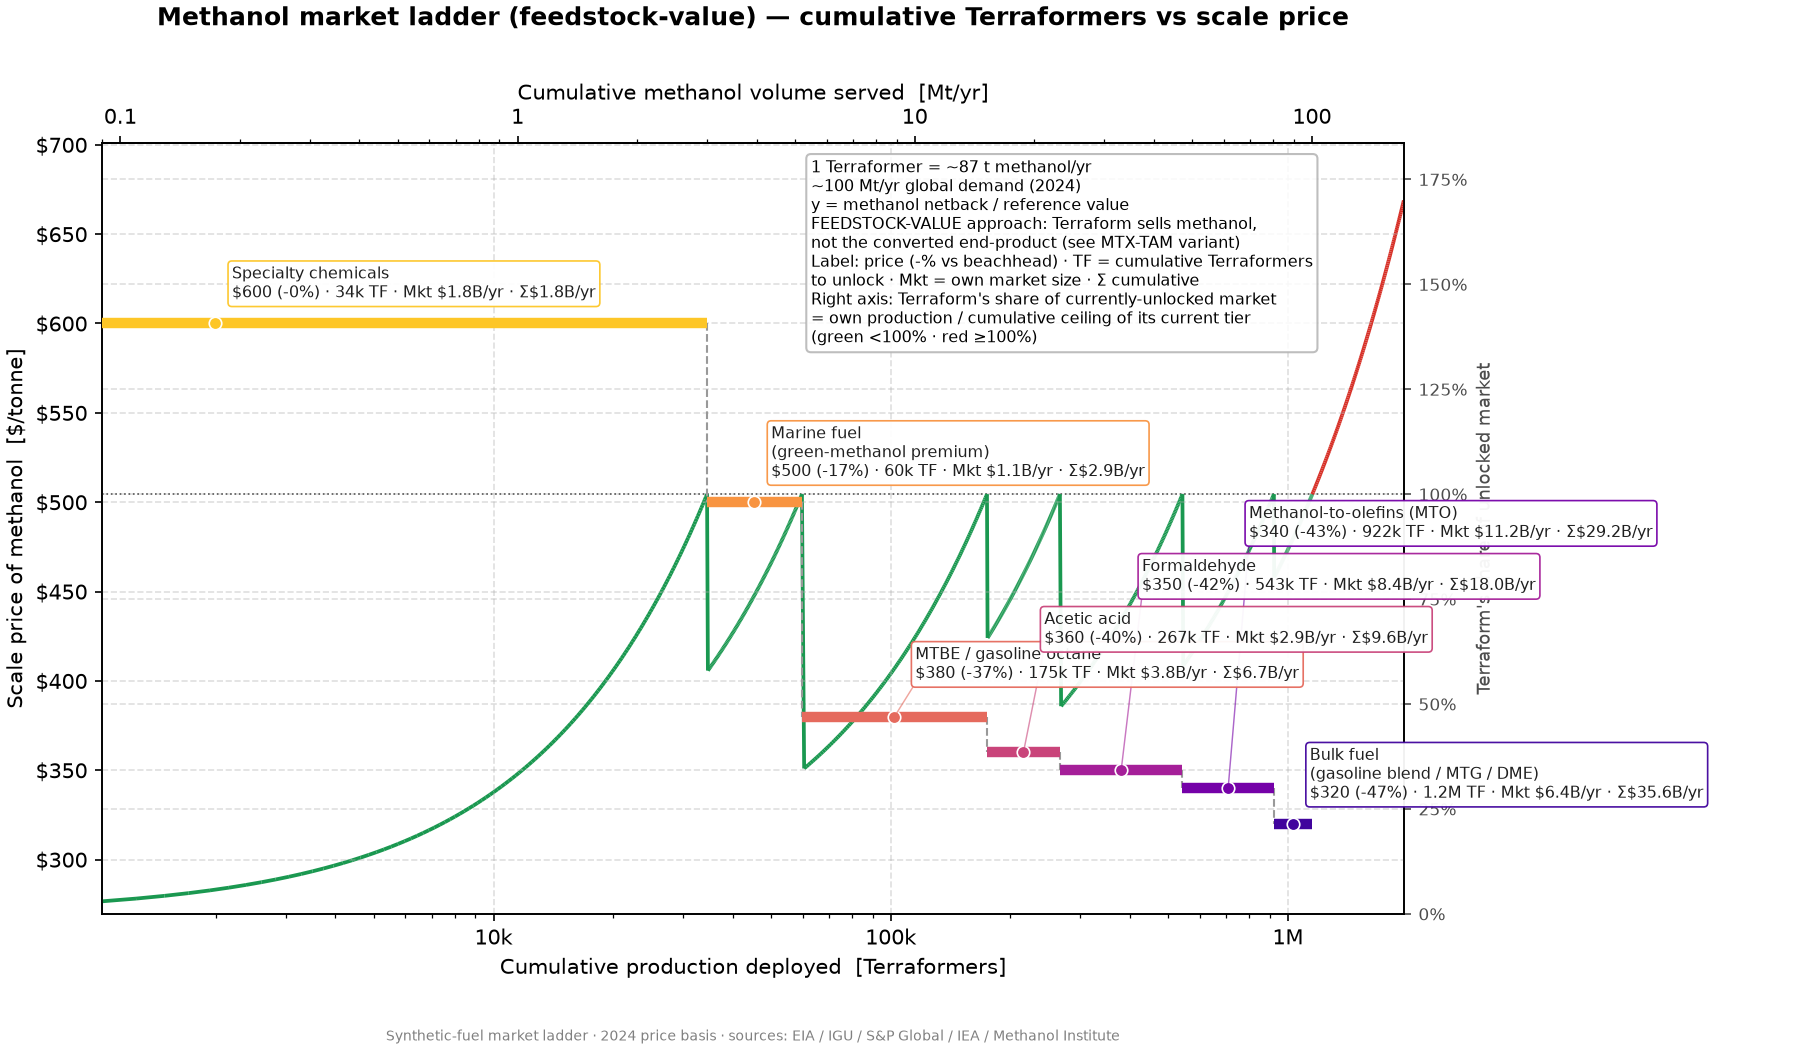
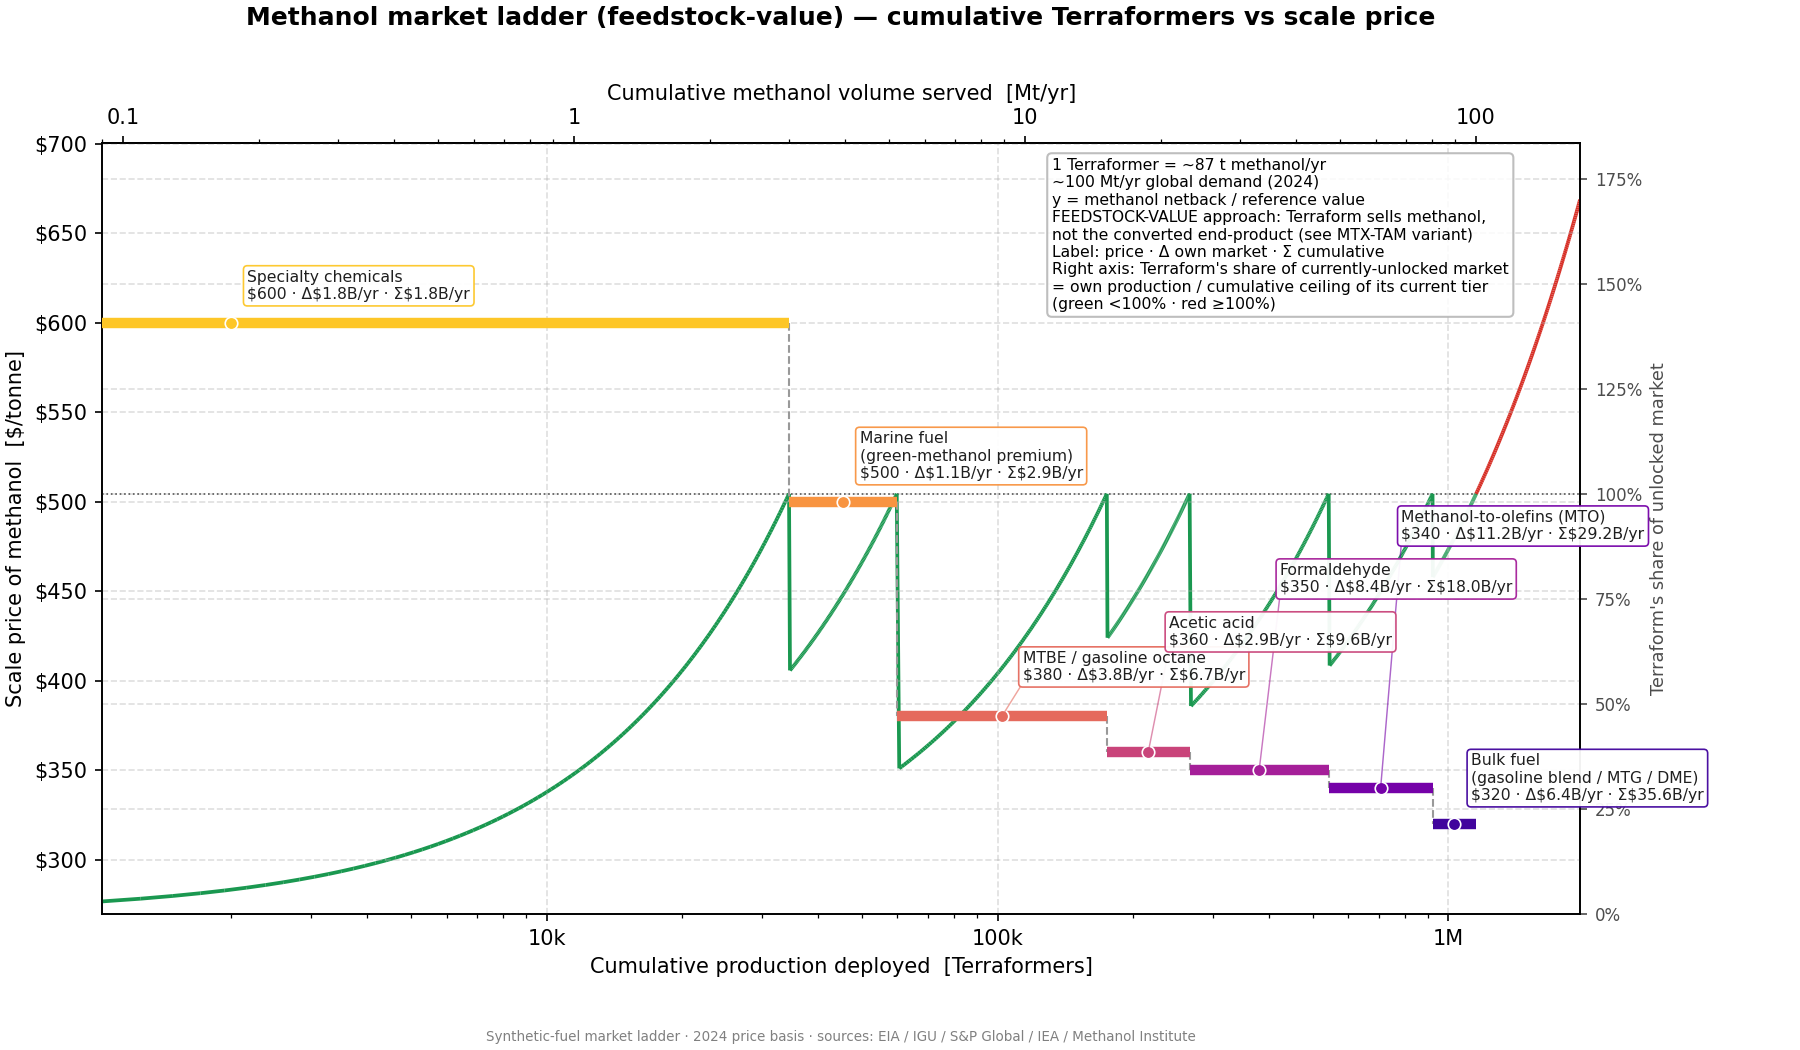
Revert market-ladder label changes
The "market size in dollars" request was actually about a different set
of bar charts, not these ladder charts — reverting to the original
labels here.

diff --git a/Terraform-Market-Ladder/terraformer_market_ladder.py b/Terraform-Market-Ladder/terraformer_market_ladder.py
@@ -258,15 +258,6 @@ def _human(x: float) -> str:
     return f"{x:g}"
 
 
-def _human_count(x: float) -> str:
-    """Same as _human but rounded to 3 sig figs — for arbitrary (non-tick) counts in labels."""
-    if x >= 1e6:
-        return f"{x / 1e6:.1f}M"
-    if x >= 1e3:
-        return f"{x / 1e3:.0f}k"
-    return f"{x:.0f}"
-
-
 def add_market_share_axis(ax, steps: list[LadderStep]) -> None:
     """Overlay Terraform's share of the currently-unlocked cumulative market, on a secondary
     (right) y-axis: share(x) = x / H_n, where x is Terraform's own cumulative production (the
@@ -393,10 +384,8 @@ def draw(ax, fig, steps: list[LadderStep], *, title: str, y_label: str, x_top_la
 
     # Pass 2 — text + boxes, zorder above every arrow drawn in pass 1.
     for s, c, xmid, dx, dy, ha, va in anchors:
-        pct_decrease = (steps[0].price - s.price) / steps[0].price * 100.0
-        label = (f"{s.name}\n{price_fmt(s.price)} (-{pct_decrease:.0f}%)"
-                 f" · {_human_count(s.cum_hi)} TF"
-                 f" · Mkt {_fmt_dollars(s.dollars_per_year)}"
+        label = (f"{s.name}\n{price_fmt(s.price)}"
+                 f" · Δ{_fmt_dollars(s.dollars_per_year)}"
                  f" · Σ{_fmt_dollars(s.cumulative_dollars_per_year)}")
         bbox = dict(boxstyle="round,pad=0.25", fc="white", ec=c, lw=0.8, alpha=0.95)
         ax.annotate(label, xy=(xmid, s.price), xytext=(dx, dy), textcoords="offset points",
@@ -459,18 +448,16 @@ def figures():
     # Crowded low-price methane tiers cluster in both x and y: cascade each label's dy upward
     # (anchored to its OWN dot, not a shared column) so boxes stack without crossing leaders.
     methane_offsets = {
-        "Global LNG trade (JKM-priced)": (-8, 10, "right", "bottom"),
         "Industrial process fuel\n(residual, ex-ammonia/LNG)": (10, 20, "left", "bottom"),
-        "Ammonia / fertilizer feedstock": (14, 70, "left", "bottom"),
-        "Residential / commercial\n(global buildings, 21% share)": (18, 120, "left", "bottom"),
-        "Gas-fired electricity\n(global power, 39% share)": (-10, 170, "right", "bottom"),
+        "Ammonia / fertilizer feedstock": (14, 72, "left", "bottom"),
+        "Residential / commercial\n(global buildings, 21% share)": (18, 124, "left", "bottom"),
+        "Gas-fired electricity\n(global power, 39% share)": (-10, 176, "right", "bottom"),
     }
     methane_params = ("1 Terraformer = 2.4 MMcf CH4/yr\n"
                       "Prices: 2024 basis ($/MMBtu)\n"
                       "Volumes: GLOBAL, non-overlapping (de-double-counted)\n"
                       "IEA/IGU sector shares + Henry Hub as global floor price\n"
-                      "Label: price (-% vs beachhead) · TF = cumulative Terraformers\n"
-                      "to unlock · Mkt = own market size · Σ cumulative\n"
+                      "Label: price · Δ own market · Σ cumulative\n"
                       "Right axis: Terraform's share of currently-unlocked market\n"
                       "= own production / cumulative ceiling of its current tier\n"
                       "(green <100% · red ≥100%)")
@@ -487,8 +474,7 @@ def figures():
                        "y = methanol netback / reference value\n"
                        "FEEDSTOCK-VALUE approach: Terraform sells methanol,\n"
                        "not the converted end-product (see MTX-TAM variant)\n"
-                       "Label: price (-% vs beachhead) · TF = cumulative Terraformers\n"
-                      "to unlock · Mkt = own market size · Σ cumulative\n"
+                       "Label: price · Δ own market · Σ cumulative\n"
                        "Right axis: Terraform's share of currently-unlocked market\n"
                        "= own production / cumulative ceiling of its current tier\n"
                        "(green <100% · red ≥100%)")
@@ -498,13 +484,13 @@ def figures():
     # in x, but check for y-collisions on the linear axis and tune if needed).
     methanol_tam_offsets = {
         "MTBE / gasoline octane": (10, 16, "left", "bottom"),
-        "Acetic acid": (10, 60, "left", "bottom"),
-        "Formaldehyde": (10, 100, "left", "bottom"),
-        "MTX aromatics/olefins\n(global olefins TAM)": (24, 168, "left", "bottom"),
-        "Bulk DME\n(residual direct-fuel use)": (10, 212, "left", "bottom"),
+        "Acetic acid": (10, 50, "left", "bottom"),
+        "Formaldehyde": (10, 84, "left", "bottom"),
+        "MTX aromatics/olefins\n(global olefins TAM)": (10, 118, "left", "bottom"),
+        "Bulk DME\n(residual direct-fuel use)": (10, 152, "left", "bottom"),
         "MTG gasoline\n(global gasoline TAM)": (10, 20, "left", "bottom"),
-        "MTX diesel\n(global diesel TAM)": (16, 110, "left", "bottom"),
-        "MTX jet / Jet-A\n(global jet fuel TAM)": (-40, 235, "right", "bottom"),
+        "MTX diesel\n(global diesel TAM)": (16, 90, "left", "bottom"),
+        "MTX jet / Jet-A\n(global jet fuel TAM)": (-22, 160, "right", "bottom"),
     }
     methanol_tam_params = ("1 Terraformer = ~87 t methanol/yr\n"
                        "y = max methanol netback for conversion to stay profitable\n"
@@ -514,8 +500,7 @@ def figures():
                        "Non-MTX tiers still feedstock-value (unchanged)\n"
                        "Conversion ratios: MTG 2.584 (sourced, Motunui); others\n"
                        "2.9 (MTO rule-of-thumb, extended to diesel/jet — ASSUMPTION)\n"
-                       "Label: price (-% vs beachhead) · TF = cumulative Terraformers\n"
-                      "to unlock · Mkt = own market size · Σ cumulative\n"
+                       "Label: price · Δ own market · Σ cumulative\n"
                        "Right axis: Terraform's share of currently-unlocked market\n"
                        "= own production / cumulative ceiling of its current tier\n"
                        "(green <100% · red ≥100%)")
@@ -551,7 +536,7 @@ def figures():
         return fig, OUTPUT_ROOT / "methanol_market_ladder.png"
 
     def build_methanol_tam():
-        fig, ax = render.new_figure(figsize=(15, 8))
+        fig, ax = render.new_figure(figsize=(12, 7))
         draw(ax, fig, methanol_tam,
              title="Methanol market ladder (destination-product TAM) — cumulative Terraformers vs scale price",
              y_label="Max methanol netback price  [$/tonne]",
